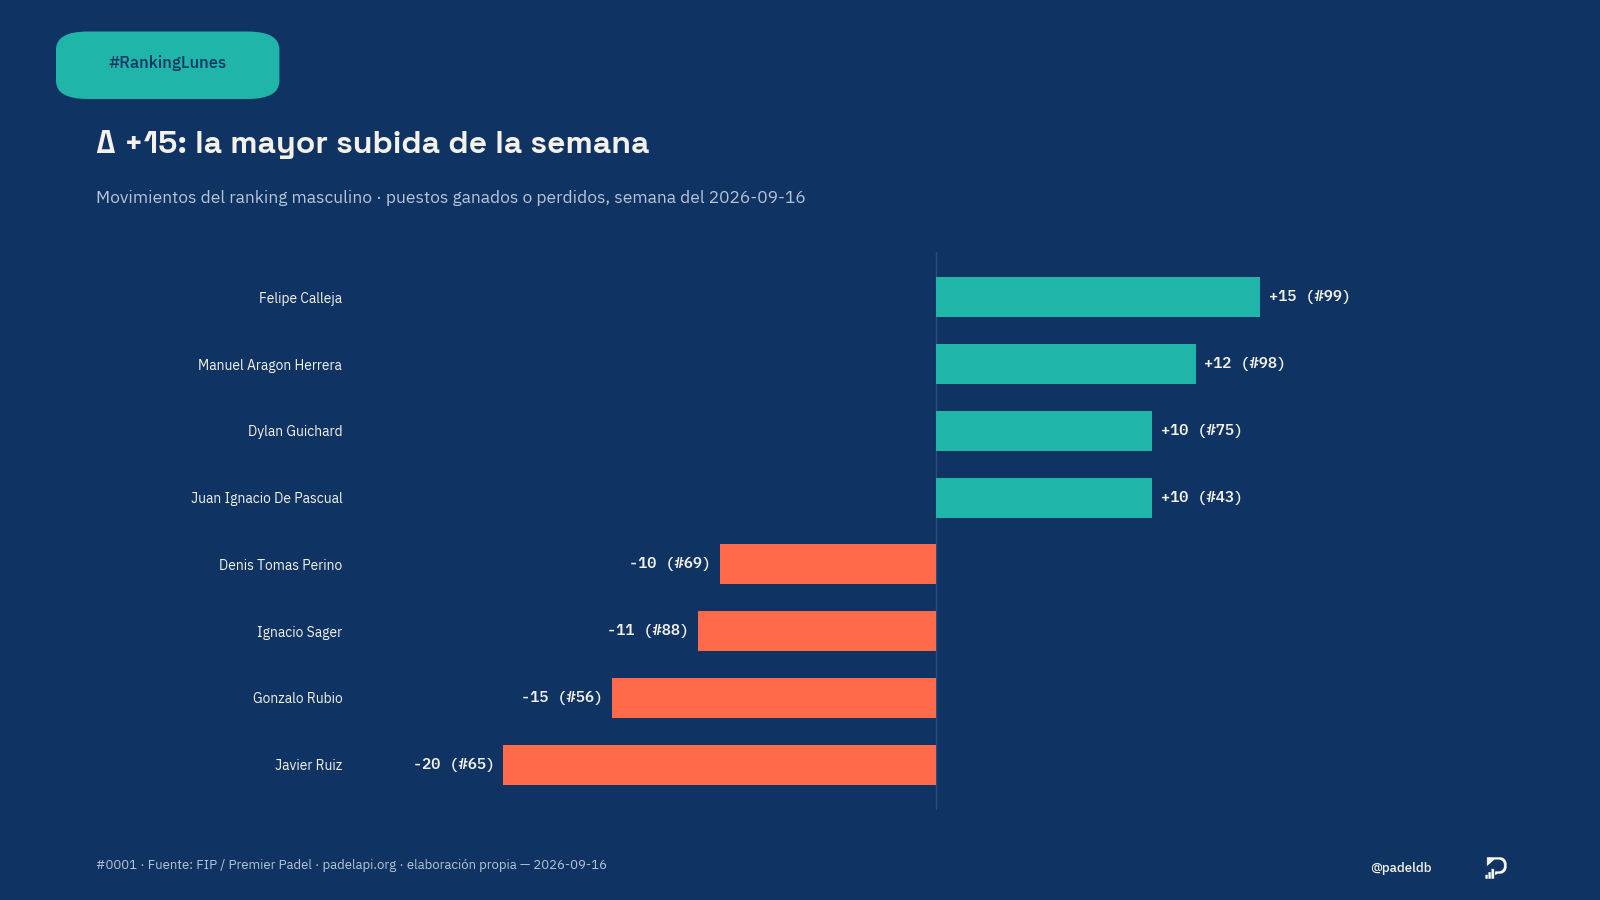
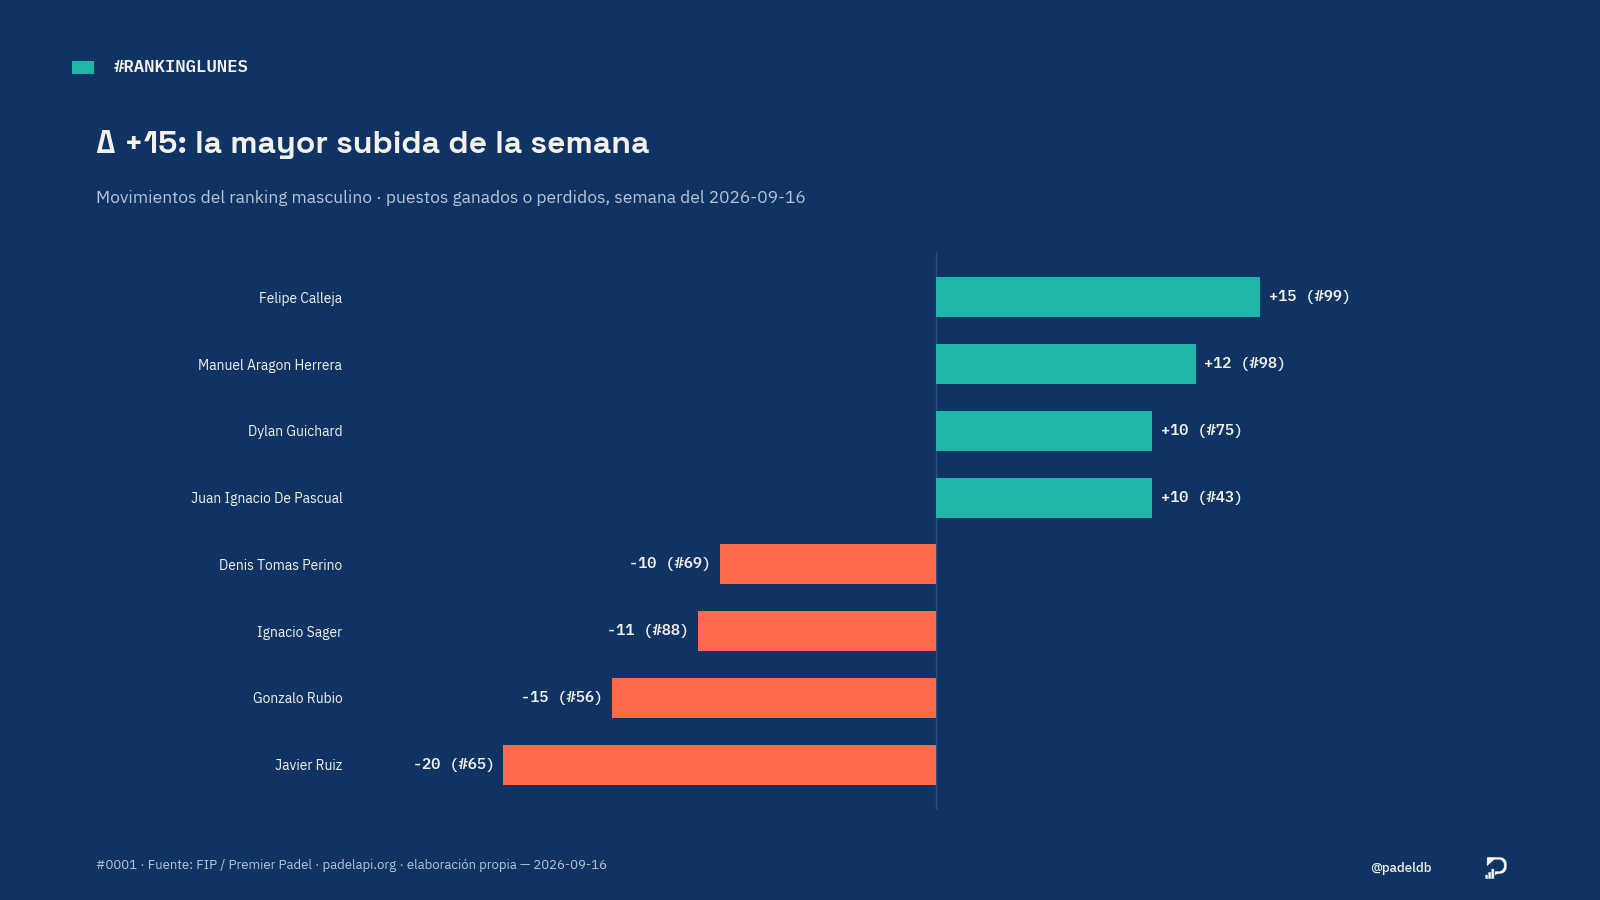
chart_factory: marca de serie minimal (elegida tras comparar 5 opciones
Se generaron 5 alternativas de marca de serie sobre el mismo gráfico
para que el usuario eligiera: píldora rellena (la original), píldora
con solo contorno, marcador minimal, píldora invertida y texto grande
subrayado. Elegida la minimal: cuadrado cristal de acento + nombre de
la serie en mayúsculas con IBM Plex Mono, sin caja de fondo. Se
adapta al tema oscuro (texto en Arena, cuadrado siempre en Cristal).

Eliminada _ancho_texto_frac(), que solo hacía falta para dimensionar
la píldora anterior y se quedó sin uso.

Changed region(s): [[0.0312, 0.0311, 0.1875, 0.1244]]

diff --git a/content/chart_factory/marca.py b/content/chart_factory/marca.py
@@ -133,55 +133,38 @@ def nueva_figura(tamano: tuple[float, float], tema: Tema) -> tuple[plt.Figure, p
     return fig, ax
 
 
-def _ancho_texto_frac(fig: plt.Figure, texto: str, fontproperties: FontProperties, fontsize_pt: float) -> float:
-    """Ancho real del texto (en fracción de figura), midiendo con el mismo
-    TTF que se va a dibujar — así una píldora se ajusta al texto en vez de
-    calcularse con una estimación de caracteres que deja huecos o se queda
-    corta según la palabra."""
-    from PIL import ImageFont
-
-    size_px = round(fontsize_pt * fig.dpi / 72)
-    font = ImageFont.truetype(fontproperties.get_file(), size=size_px)
-    izq, _, der, _ = font.getbbox(texto)
-    ancho_px = der - izq
-    return ancho_px / (fig.get_size_inches()[0] * fig.dpi)
-
-
 def pildora_serie(fig: plt.Figure, texto: str, tema: Tema) -> None:
-    """Píldora de serie arriba a la izquierda: fondo cristal, texto pista,
-    siempre en el mismo sitio (doc 02 §1.2, punto 1). El ancho se ajusta al
-    texto real (medido con la propia fuente), no a una estimación por
-    número de caracteres — evita píldoras con demasiado aire alrededor de
-    frases largas como "Cierre de torneo"."""
-    fontsize = 12
-    padding_frac = 0.022
-    ancho_texto = _ancho_texto_frac(fig, texto, Fuentes.texto_medio(), fontsize)
-    ancho = ancho_texto + padding_frac * 2
-    alto = 0.055
-    x0, y0 = 0.045, 0.90
+    """Marca de serie arriba a la izquierda (doc 02 §1.2, punto 1): un
+    cuadrado cristal seguido del nombre de la serie en mayúsculas,
+    monoespaciado (IBM Plex Mono), sin caja de fondo — versión "minimal"
+    elegida tras comparar varias alternativas de píldora con el usuario
+    (ver docs/campos-chart-factory.md)."""
+    colores = colores_tema(tema)
+    fontsize = 12.5
+    x0, y0 = 0.045, 0.925
+    marca_w, marca_h = 0.014, 0.014
 
     fig.patches.append(
-        FancyBboxPatch(
-            (x0, y0),
-            ancho,
-            alto,
+        plt.Rectangle(
+            (x0, y0 - marca_h / 2),
+            marca_w,
+            marca_h,
             transform=fig.transFigure,
-            boxstyle="round,pad=0.01,rounding_size=0.02",
             facecolor=CRISTAL,
             edgecolor="none",
             zorder=5,
         )
     )
     fig.text(
-        x0 + ancho / 2,
-        y0 + alto / 2 + 0.002,
-        texto,
+        x0 + marca_w + 0.012,
+        y0,
+        texto.upper(),
         transform=fig.transFigure,
-        ha="center",
+        ha="left",
         va="center",
-        fontproperties=Fuentes.texto_medio(),
+        fontproperties=Fuentes.cifra(),
         fontsize=fontsize,
-        color=PISTA,
+        color=colores["texto_principal"],
         zorder=6,
     )
 

diff --git a/docs/campos-chart-factory.md b/docs/campos-chart-factory.md
@@ -98,15 +98,24 @@ cola (`queue/candidates.json`, doc 03 §6), el número de registro debería
 vivir ahí en vez de en un fichero aparte — este contador es la versión
 mínima mientras esa cola no se ha construido todavía.
 
-## Píldora de serie: ancho ajustado al texto real
+## Marca de serie: de píldora a marcador minimal
 
-La primera versión calculaba el ancho de la píldora a partir del número de
-caracteres del texto (una estimación), lo que dejaba frases largas como
-"Cierre de torneo" con demasiado aire a la derecha frente a series cortas
-como "#RankingLunes". Se sustituyó por una medición real: `_ancho_texto_frac()`
-carga el mismo TTF que se va a dibujar con `PIL.ImageFont` y mide el ancho
-exacto en píxeles del texto a ese tamaño de letra, así que la píldora se
-ajusta a cualquier frase con el mismo margen proporcional.
+La píldora rellena (fondo cristal, texto centrado) no acababa de convencer
+al usuario. Se generaron 5 alternativas sobre el mismo gráfico
+(#RankingLunes masculino 16:9) para comparar: píldora rellena (la
+original), píldora con solo contorno, marcador minimal (cuadrado cristal +
+texto en mayúsculas monoespaciado, sin caja), píldora invertida
+(fondo Pista, texto Bola) y texto grande subrayado sin caja. Se eligió el
+**marcador minimal**: un cuadrado cristal de acento fijo seguido del
+nombre de la serie en mayúsculas con IBM Plex Mono (el mismo tipo de letra
+que las cifras del gráfico, para que la marca de serie se lea como un
+"tag" técnico, no como un titular), sin fondo ni caja alrededor. Se adapta
+al tema oscuro con el texto en `texto_principal` (Arena) — el cuadrado de
+acento se mantiene siempre en Cristal, en los dos temas.
+
+De paso, al no depender ya de medir el ancho exacto del texto (necesario
+solo para dimensionar una píldora), se eliminó `_ancho_texto_frac()` del
+módulo — quedaba sin ningún uso.
 
 ## Series migradas a la plantilla completa
 
